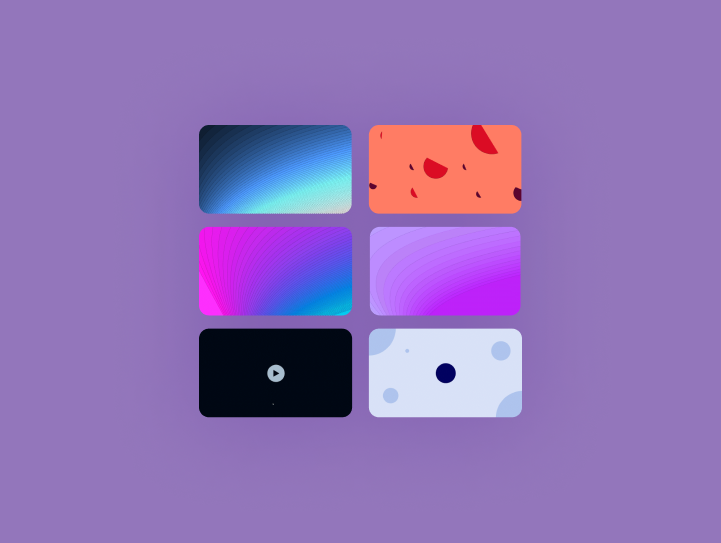
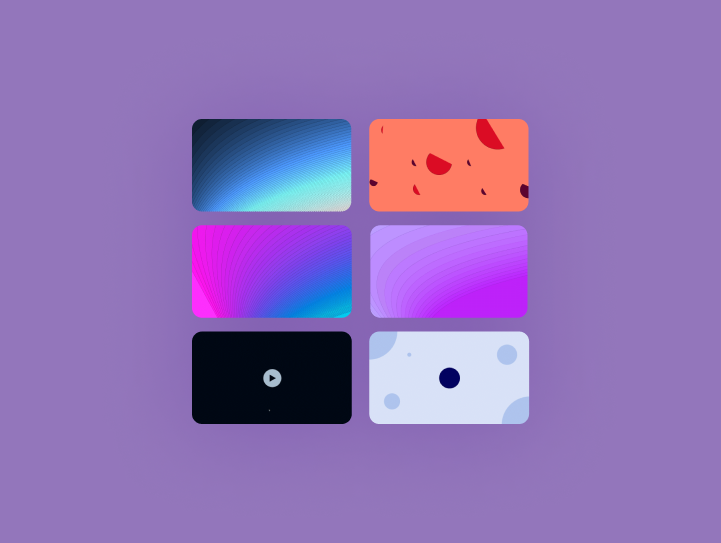
v 6601

diff --git a/index.html b/index.html
@@ -49,7 +49,6 @@
 
 
         <div class="project-container" style="background-color: #EBF8D9;">
-          <div class="rectangle-container">
             <div class="project">
               <a href="./projects/browserextension.html">
                 <img
@@ -63,12 +62,10 @@
                 <p>Web Browser Plant. A browser extension to plant a plant in the lower left corner of your browser to keep the environment close to home in your mind.</p>
               </div>
             </div>
-          </div>
         </div>
 
 
           <div class="project-container" style="background-color: #F2E8FF;">
-            <div class="rectangle-container">
               <div class="project">
                 <a href="./projects/creativecode.html">
                   <img
@@ -82,11 +79,9 @@
                   <p>A series of sketches utilizing the P5.js and P5.sound libraries to create visual and auditory artworks.</p>
                 </div>
               </div>
-            </div>
           </div>
 
           <div class="project-container" style="background-color: #EFD2CF;">
-            <div class="rectangle-container">
               <div class="project">
                 <a href="./projects/game.html">
                   <img
@@ -100,11 +95,9 @@
                   <p>An dodge-the-fire balloon game created using libraries via web development toolchain</p>
                 </div>
               </div>
-            </div>
           </div>
 
           <div class="project-container" style="background-color: #EBF8D9;">
-            <div class="rectangle-container">
               <div class="project">
                 <a href="./projects/finalprojectprototype1.html">
                   <img
@@ -118,11 +111,9 @@
                   <p>A functional minimal implementation of my final project </p>
                 </div>
               </div>
-            </div>
           </div>
 
-          <div class="project-container" style="background-color: #DCECFD;">
-            <div class="rectangle-container">   
+          <div class="project-container" style="background-color: #DCECFD;">  
               <div class="project">
                 <a href="./projects/finalprojectfinalversion.html">
                   <img
@@ -136,7 +127,6 @@
                   <p>Plant Weather World. A browser extension to add a persistent plant world added to your browser, reflecting a location of your choice.</p>
                 </div>
               </div>
-            </div> 
           </div>
         </div>
     </div>

diff --git a/index.css b/index.css
@@ -20,10 +20,10 @@ html {
 .project-container {
   /*display: flex;*/
   display: grid;
+  /*grid-template-columns: auto auto;*/
   gap: 50px;
   /*flex-wrap: wrap;*/
-  padding: 50px 0px 50px 0px;
-  display: flex;
+  padding: 100px 0px 100px 0px;
   align-items: center;
   border-radius: 25px;
   align-content: space-around; /*center*/
@@ -39,7 +39,7 @@ html {
 }
 
 .picture {
-  width: 100%; /*25rem;*/ /*400px;*/
+  width: 90%; /*25rem;*/ /*400px;*/
   height: auto; /* 300px;*/
   border-radius: 20px;
   cursor: pointer;
@@ -108,6 +108,7 @@ html {
   /*QUESTION: Question of how to set the length of the words before wraps!*/
   display: flex;
   flex-direction: column;
+  width: 60%;
   /*margin: auto;*/
   /*line-height: 10px;*/
   /*gap: -40px;*/ /*Question of how to reduce the gap size */
@@ -192,8 +193,8 @@ body {
   color: #25252B;
   /*justify-content: flex-start;*/  /*center;*/
   align-items: center;
-  padding-left: 50px;
-  padding-right: 50px;
+  padding-left: 100px;
+  padding-right: 100px;
   justify-content: center; /* NOTE: what needed to get it center!! -- https://css-tricks.com/snippets/css/a-guide-to-flexbox/ */
 }
 
